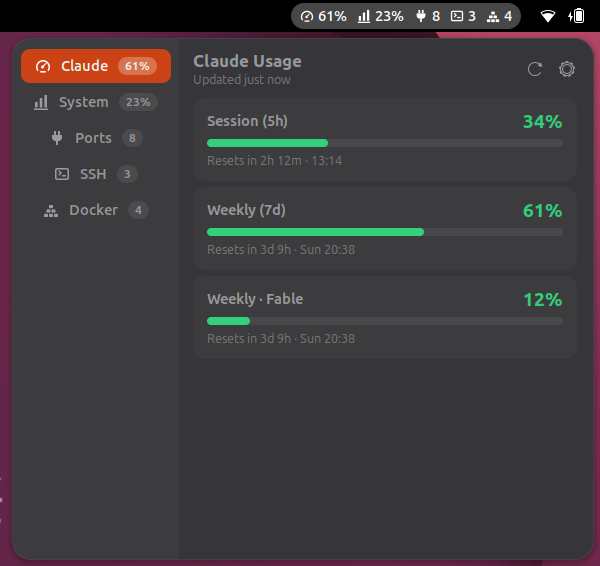
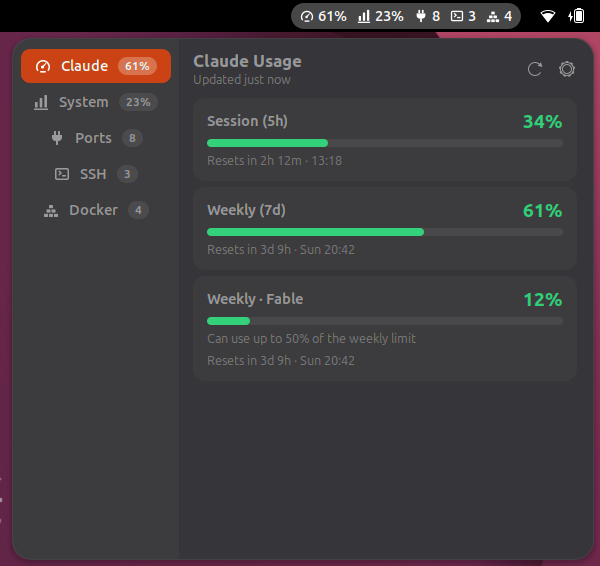
Claude: read the newer limits list (scoped limits such as Fable)
The usage API now reports limits in a 'limits' list: session, overall
weekly, and 'weekly_scoped' limits per model or surface (e.g. Fable),
with 'weekly_scoped_shares' giving each scoped limit's share of the
weekly allowance. The per-model top-level keys (seven_day_opus, ...)
are null in such responses, which is why no model row appeared.

OpsDeck now prefers 'limits' (defensively: malformed entries skipped),
falls back to the per-window keys otherwise, and shows the allowance
('Can use up to 50% of the weekly limit'). Fixture mirrors the real
response structure.

Also: submission notes are kept out of the repository (local notes/).

Claude-Session: https://claude.ai/code/session_017m6adgPDTdHLwrVBZk9LNm

Changed region(s): [[0.33, 0.5707, 0.69, 0.6608], [0.57, 0.4205, 0.6, 0.4505], [0.54, 0.2703, 0.57, 0.3004]]

diff --git a/extension/sources/claude.js b/extension/sources/claude.js
@@ -76,23 +76,82 @@ export function parseCredentials(text, nowMs) {
 }
 
 /**
- * Normalise the usage response into an ordered list of windows.
- *
- * @returns {{id: string, label: string, pct: number, resetsAt: number|null}[]}
+ * @typedef {object} UsageWindow
+ * @property {string} id - "five_hour", "seven_day", "seven_day_fable", ...
+ * @property {string} label
+ * @property {number} pct
+ * @property {number|null} resetsAt
+ * @property {number|null} sharePct - for a scoped limit: the share of the
+ *   weekly allowance it may use (e.g. 50)
  */
-export function parseUsage(json) {
+
+const pctOf = v => Math.max(0, Math.min(100, Math.round(v)));
+const timeOf = v => {
+    const t = v ? Date.parse(v) : NaN;
+    return Number.isFinite(t) ? t : null;
+};
+const slug = s => String(s).trim().toLowerCase().replace(/[^a-z0-9]+/g, '_').replace(/^_|_$/g, '');
+
+/**
+ * Newer responses list every limit in `limits`: the session and overall
+ * weekly limits plus "weekly_scoped" ones for a model or surface (e.g.
+ * Fable), with `weekly_scoped_shares` giving each scoped limit's share of
+ * the weekly allowance. Undocumented, so anything unexpected is skipped.
+ *
+ * @returns {UsageWindow[]|null} null when the response has no usable `limits`
+ */
+function parseLimits(json) {
+    if (!Array.isArray(json?.limits))
+        return null;
+    const shares = new Map();
+    for (const s of Array.isArray(json.weekly_scoped_shares) ? json.weekly_scoped_shares : []) {
+        if (Number.isInteger(s?.limit_index) && typeof s.allowance_percent_of_weekly === 'number')
+            shares.set(s.limit_index, s.allowance_percent_of_weekly);
+    }
+    const windows = [];
+    json.limits.forEach((limit, index) => {
+        if (!limit || typeof limit.percent !== 'number')
+            return;
+        const scopeName = limit.scope?.model?.display_name ?? limit.scope?.surface?.display_name ??
+            (typeof limit.scope?.surface === 'string' ? limit.scope.surface : null);
+        let id;
+        if (limit.kind === 'session')
+            id = 'five_hour';
+        else if (limit.kind === 'weekly_all')
+            id = 'seven_day';
+        else if (scopeName)
+            id = `${limit.group === 'session' ? 'five_hour' : 'seven_day'}_${slug(scopeName)}`;
+        else
+            return;
+        windows.push({
+            id,
+            label: scopeName ? `${limit.group === 'session' ? 'Session' : 'Weekly'} · ${scopeName}` : windowLabel(id),
+            pct: pctOf(limit.percent),
+            resetsAt: timeOf(limit.resets_at),
+            sharePct: shares.get(index) ?? null,
+        });
+    });
+    return windows.length ? windows : null;
+}
+
+/** Older responses: one top-level key per window ({utilization, resets_at}). */
+function parseWindowKeys(json) {
     const windows = [];
     for (const [id, w] of Object.entries(json ?? {})) {
         if (!w || typeof w !== 'object' || typeof w.utilization !== 'number')
             continue;
-        const resetsAt = w.resets_at ? Date.parse(w.resets_at) : NaN;
-        windows.push({
-            id,
-            label: windowLabel(id),
-            pct: Math.max(0, Math.min(100, Math.round(w.utilization))),
-            resetsAt: Number.isFinite(resetsAt) ? resetsAt : null,
-        });
+        windows.push({id, label: windowLabel(id), pct: pctOf(w.utilization), resetsAt: timeOf(w.resets_at), sharePct: null});
     }
+    return windows;
+}
+
+/**
+ * Normalise the usage response into an ordered list of windows.
+ *
+ * @returns {UsageWindow[]}
+ */
+export function parseUsage(json) {
+    const windows = parseLimits(json) ?? parseWindowKeys(json);
     return windows.sort((a, b) => {
         const [ra, rb] = [windowRank(a.id), windowRank(b.id)];
         return ra[0] - rb[0] || ra[1] - rb[1] || ra[2].localeCompare(rb[2]);

diff --git a/tests/run.js b/tests/run.js
@@ -265,6 +265,20 @@ test('windowLabel derives names for any model, including new ones', () => {
     eq(order.map(w => w.id), ['five_hour', 'seven_day', 'five_hour_fable', 'seven_day_fable', 'seven_day_opus']);
 });
 
+test('parseUsage reads the newer limits list, including scoped (Fable) limits', () => {
+    const w = parseUsage(JSON.parse(fixture('claude-usage-limits.json')));
+    eq(w.map(x => [x.id, x.label, x.pct, x.sharePct]), [
+        ['five_hour', 'Session (5h)', 25, null],
+        ['seven_day', 'Weekly (7d)', 38, null],
+        ['seven_day_fable', 'Weekly · Fable', 0, 50],
+    ]);
+    eq(w[2].resetsAt, Date.parse('2026-10-28T03:00:00+00:00'));
+    eq(panelPercent(w, '7d'), 38);
+    // No usable limits list: fall back to the per-window keys.
+    eq(parseUsage({limits: [], five_hour: {utilization: 7}}).map(x => x.label), ['Session (5h)']);
+    eq(parseUsage({limits: 'nope', seven_day: {utilization: 9}}).map(x => x.pct), [9]);
+});
+
 test('panelPercent preference', () => {
     const w = parseUsage({five_hour: {utilization: 20}, seven_day: {utilization: 60}});
     eq([panelPercent(w, '5h'), panelPercent(w, '7d'), panelPercent(w, 'max')], [20, 60, 60]);

diff --git a/scripts/screenshot-driver/extension.js b/scripts/screenshot-driver/extension.js
@@ -37,7 +37,7 @@ const FAKE = {
         windows: [
             {id: 'five_hour', label: 'Session (5h)', pct: 34, resetsAt: now + 2.2 * HOUR},
             {id: 'seven_day', label: 'Weekly (7d)', pct: 61, resetsAt: now + 3.4 * 24 * HOUR},
-            {id: 'seven_day_fable', label: 'Weekly · Fable', pct: 12, resetsAt: now + 3.4 * 24 * HOUR},
+            {id: 'seven_day_fable', label: 'Weekly · Fable', pct: 12, resetsAt: now + 3.4 * 24 * HOUR, sharePct: 50},
         ],
     }),
 

diff --git a/extension/ui/views/claude.js b/extension/ui/views/claude.js
@@ -34,6 +34,8 @@ export class ClaudeView extends SourceView {
             const level = usageLevel(w.pct);
             const c = card(w.label, `${w.pct}%`, level);
             c.add_child(usageBar(w.pct, level));
+            if (typeof w.sharePct === 'number')
+                c.add_child(label(`Can use up to ${w.sharePct}% of the weekly limit`, 'opsdeck-meta'));
 
             if (w.resetsAt) {
                 const left = w.resetsAt - Date.now();

diff --git a/eslint.config.js b/eslint.config.js
@@ -53,6 +53,6 @@ export default [
         rules: {'no-await-in-loop': 'off'},
     },
     {
-        ignores: ['node_modules/', 'dist/', 'PATHFINDER-*/'],
+        ignores: ['node_modules/', 'dist/', 'notes/'],
     },
 ];

diff --git a/README.md b/README.md
@@ -48,7 +48,3 @@ extension/
 tests/              gjs unit tests and fixtures
 scripts/            smoke-test.sh and a test-only driver extension
 ```
-
-## Publishing
-
-See [docs/SUBMISSION.md](docs/SUBMISSION.md) for the extensions.gnome.org checklist.
